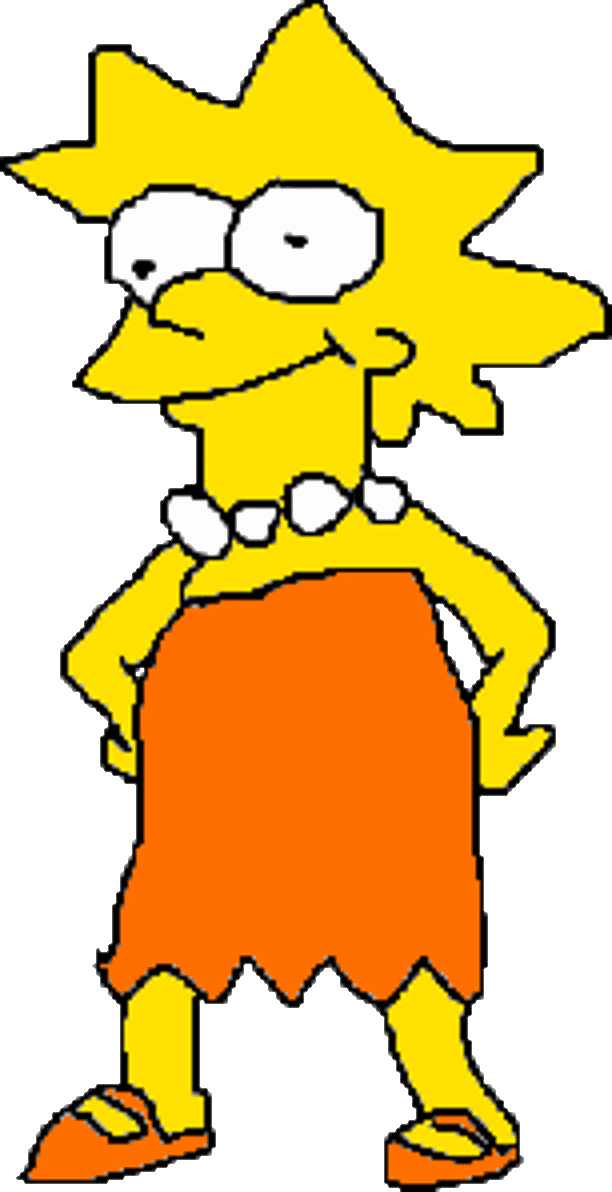
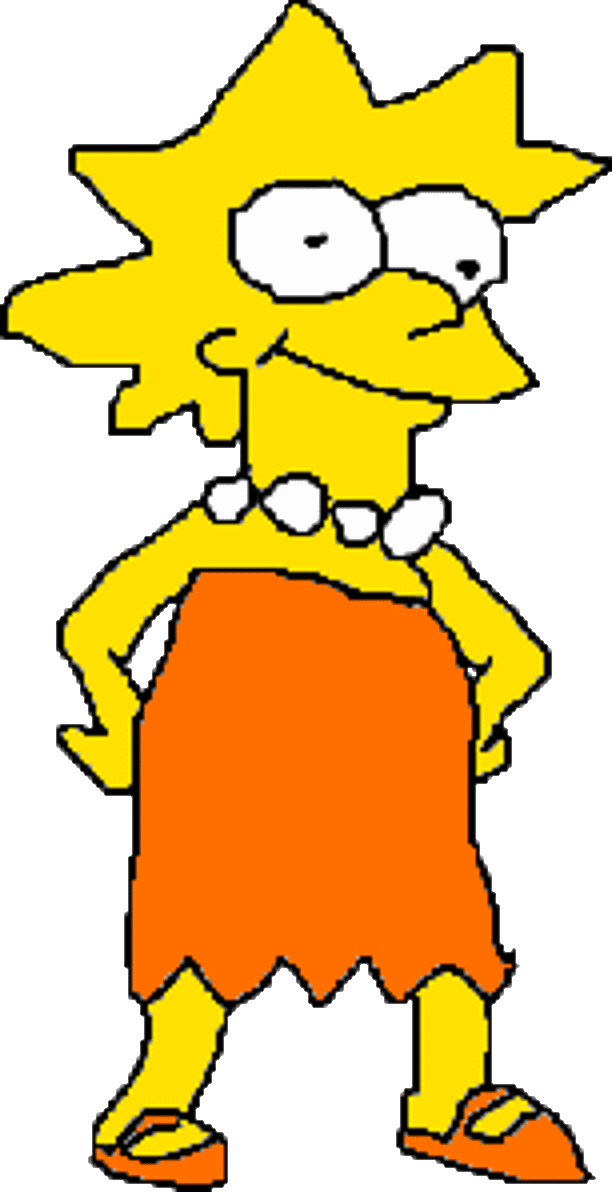
i kinda made sprites work? just need pics now

diff --git a/source code/Character.java b/source code/Character.java
@@ -19,6 +19,9 @@ class Character extends Physical implements Moveable {
   private double size;
   private char facing;
   private Image sprite;
+  private Image[] sprites = new Image[4];
+  
+  
   static double scaleRatio;
   
   private double jumpStartY;
@@ -34,7 +37,11 @@ class Character extends Physical implements Moveable {
    System.out.println("character");
    Random randNum = new Random();
    this.health = randNum.nextInt(1000)+1000.0;
-   this.sprite = new ImageIcon(spriteAddress).getImage();
+   this.sprite = new ImageIcon(spriteAddress + ".png").getImage();
+   this.sprites[0] = new ImageIcon(spriteAddress + ".png").getImage();
+   this.sprites[1] = new ImageIcon(spriteAddress + "Left.png").getImage();
+   this.sprites[2] = new ImageIcon(spriteAddress + "Punch.png").getImage();
+   this.sprites[3] = new ImageIcon(spriteAddress + "PunchLeft.png").getImage();
    this.attackStrength = (randNum.nextInt(500)+1500)/1000.0;
    this.jumping = true;
    this.xSpeed = 0;
@@ -75,7 +82,20 @@ class Character extends Physical implements Moveable {
    }
    
    setBoxPosition(getXPos(), getYPos());
-   //System.out.println(elapsedTime*10+"\n");
+   
+   if (attacking == false) {
+     if (facing == 'r') {
+       this.sprite = this.sprites[0]; 
+     } else {
+       this.sprite = this.sprites[1]; 
+     }
+   } else {
+     if (facing == 'r') {
+       this.sprite = this.sprites[2]; 
+     } else {
+       this.sprite = this.sprites[3]; 
+     }
+   }
   }
   
   public void jump() {

diff --git a/source code/GameFrame.java b/source code/GameFrame.java
@@ -51,8 +51,8 @@ class GameFrame extends JFrame {
     
     this.scaleRatio = (double) Toolkit.getDefaultToolkit().getScreenSize().height / 1080;
     
-    this.player = new Character(200,579,200,100, scaleRatio, 'r', "resources/characters/pikachu.png");
-    this.player2 = new Character(1600,579,200,100, scaleRatio, 'l', "resources/characters/lisa.png");
+    this.player = new Character(200,579,200,100, scaleRatio, 'r', "resources/characters/pikachu");
+    this.player2 = new Character(1600,579,200,100, scaleRatio, 'l', "resources/characters/lisa");
     
     gamePanel = new GameAreaPanel();
     gamePanel.setBackground(new Color(0, 0, 0, 0));
@@ -152,11 +152,11 @@ class GameFrame extends JFrame {
         if (!player2.getAttacking()) {
           if (e.getKeyCode() == KeyEvent.VK_RIGHT) {  //If 'D' is pressed
             player2.moveRight();
-            player.setDirection('r');
+            player2.setDirection('r');
           } 
           if (e.getKeyCode() == KeyEvent.VK_LEFT) {  
             player2.moveLeft();
-            player.setDirection('l');
+            player2.setDirection('l');
           }
           if (e.getKeyCode() == KeyEvent.VK_UP) {  
             player2.jump();
